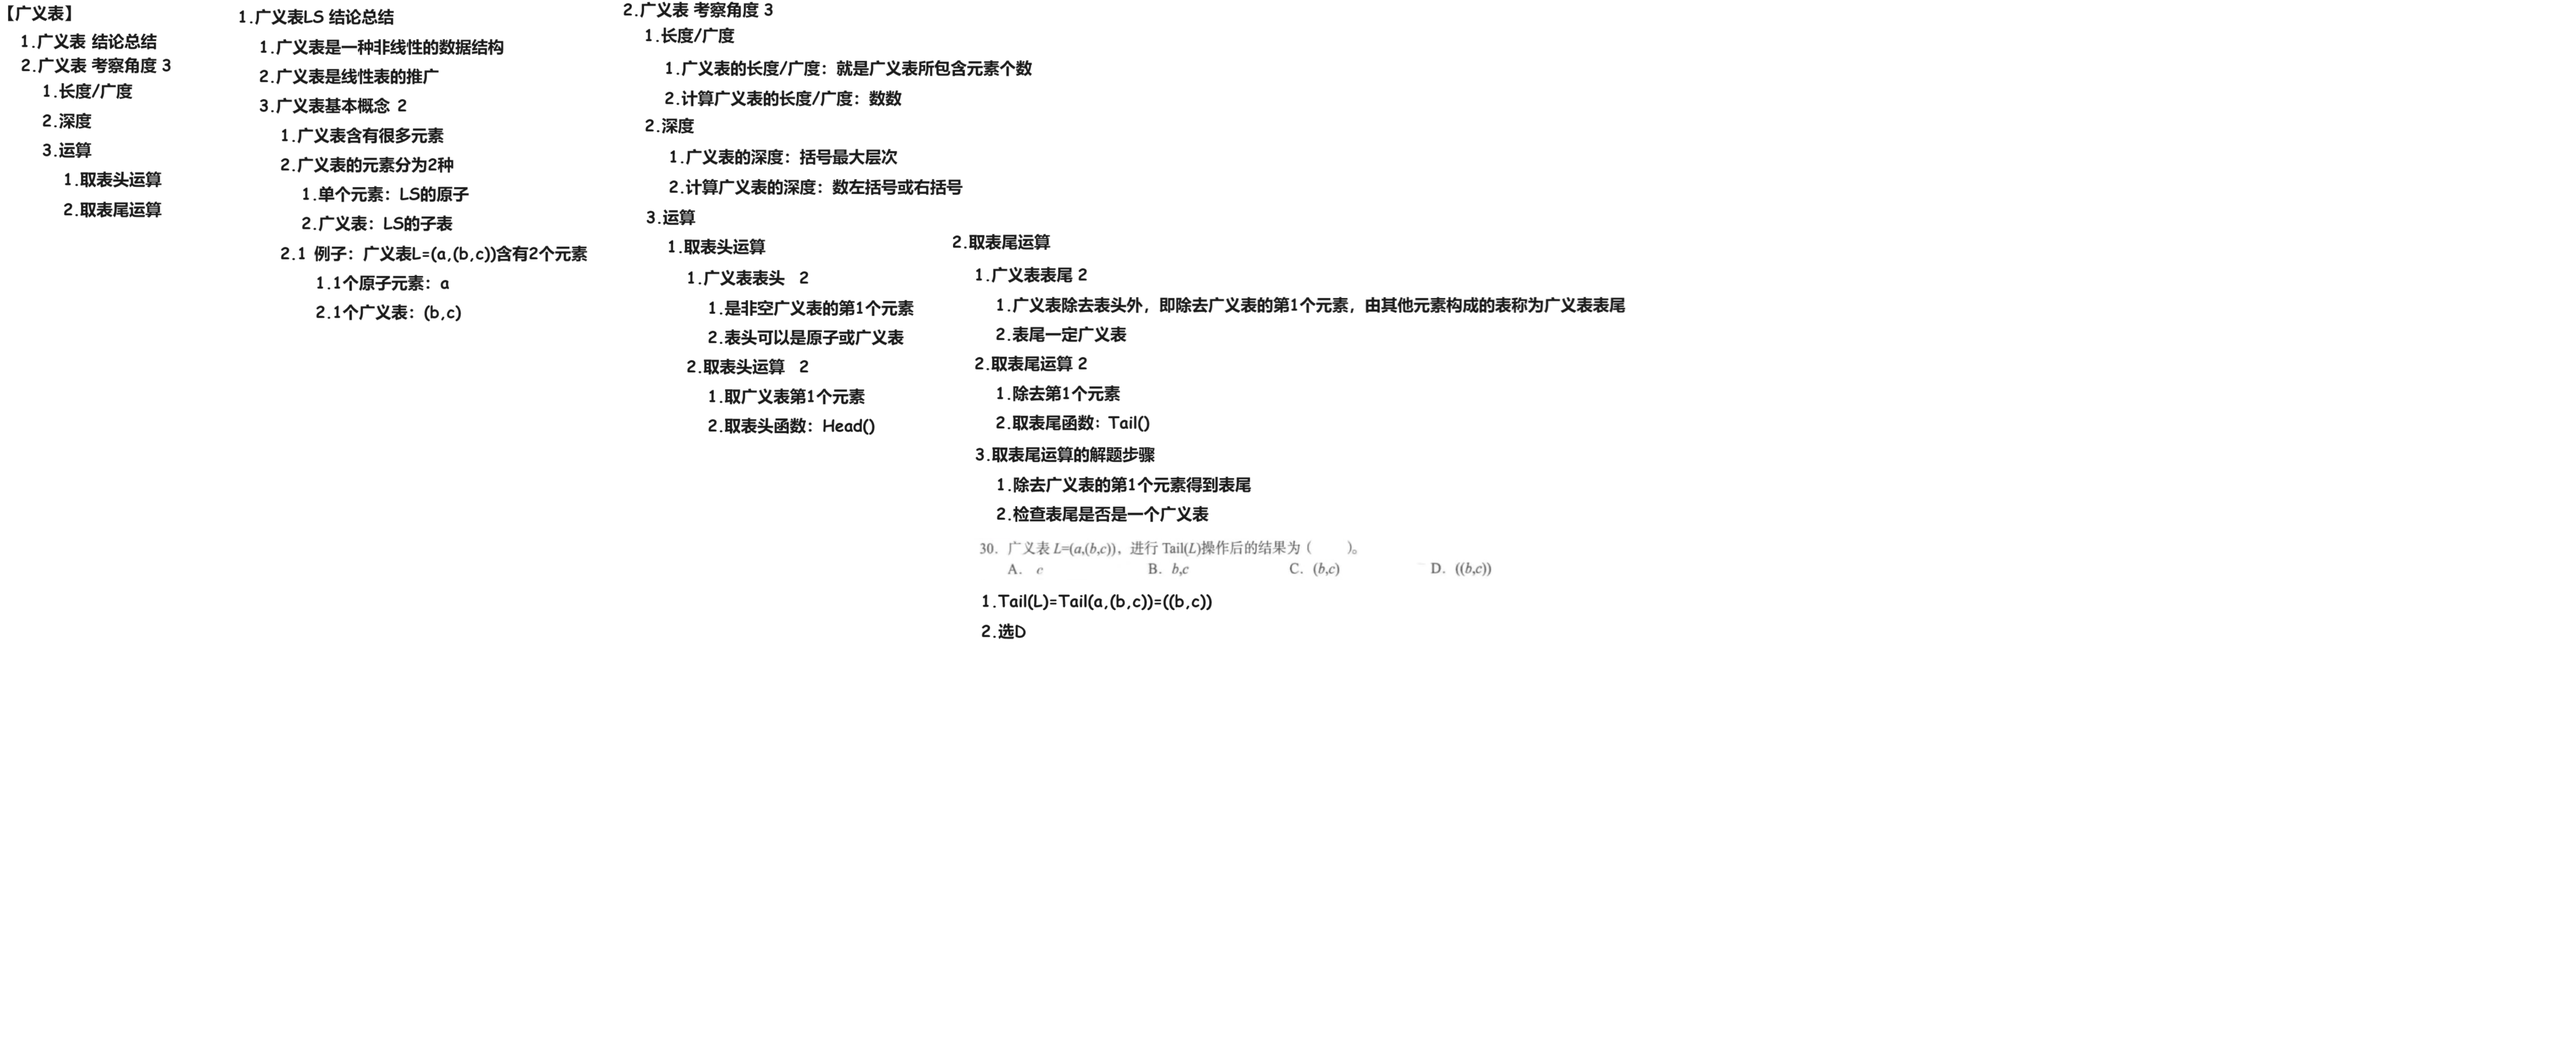
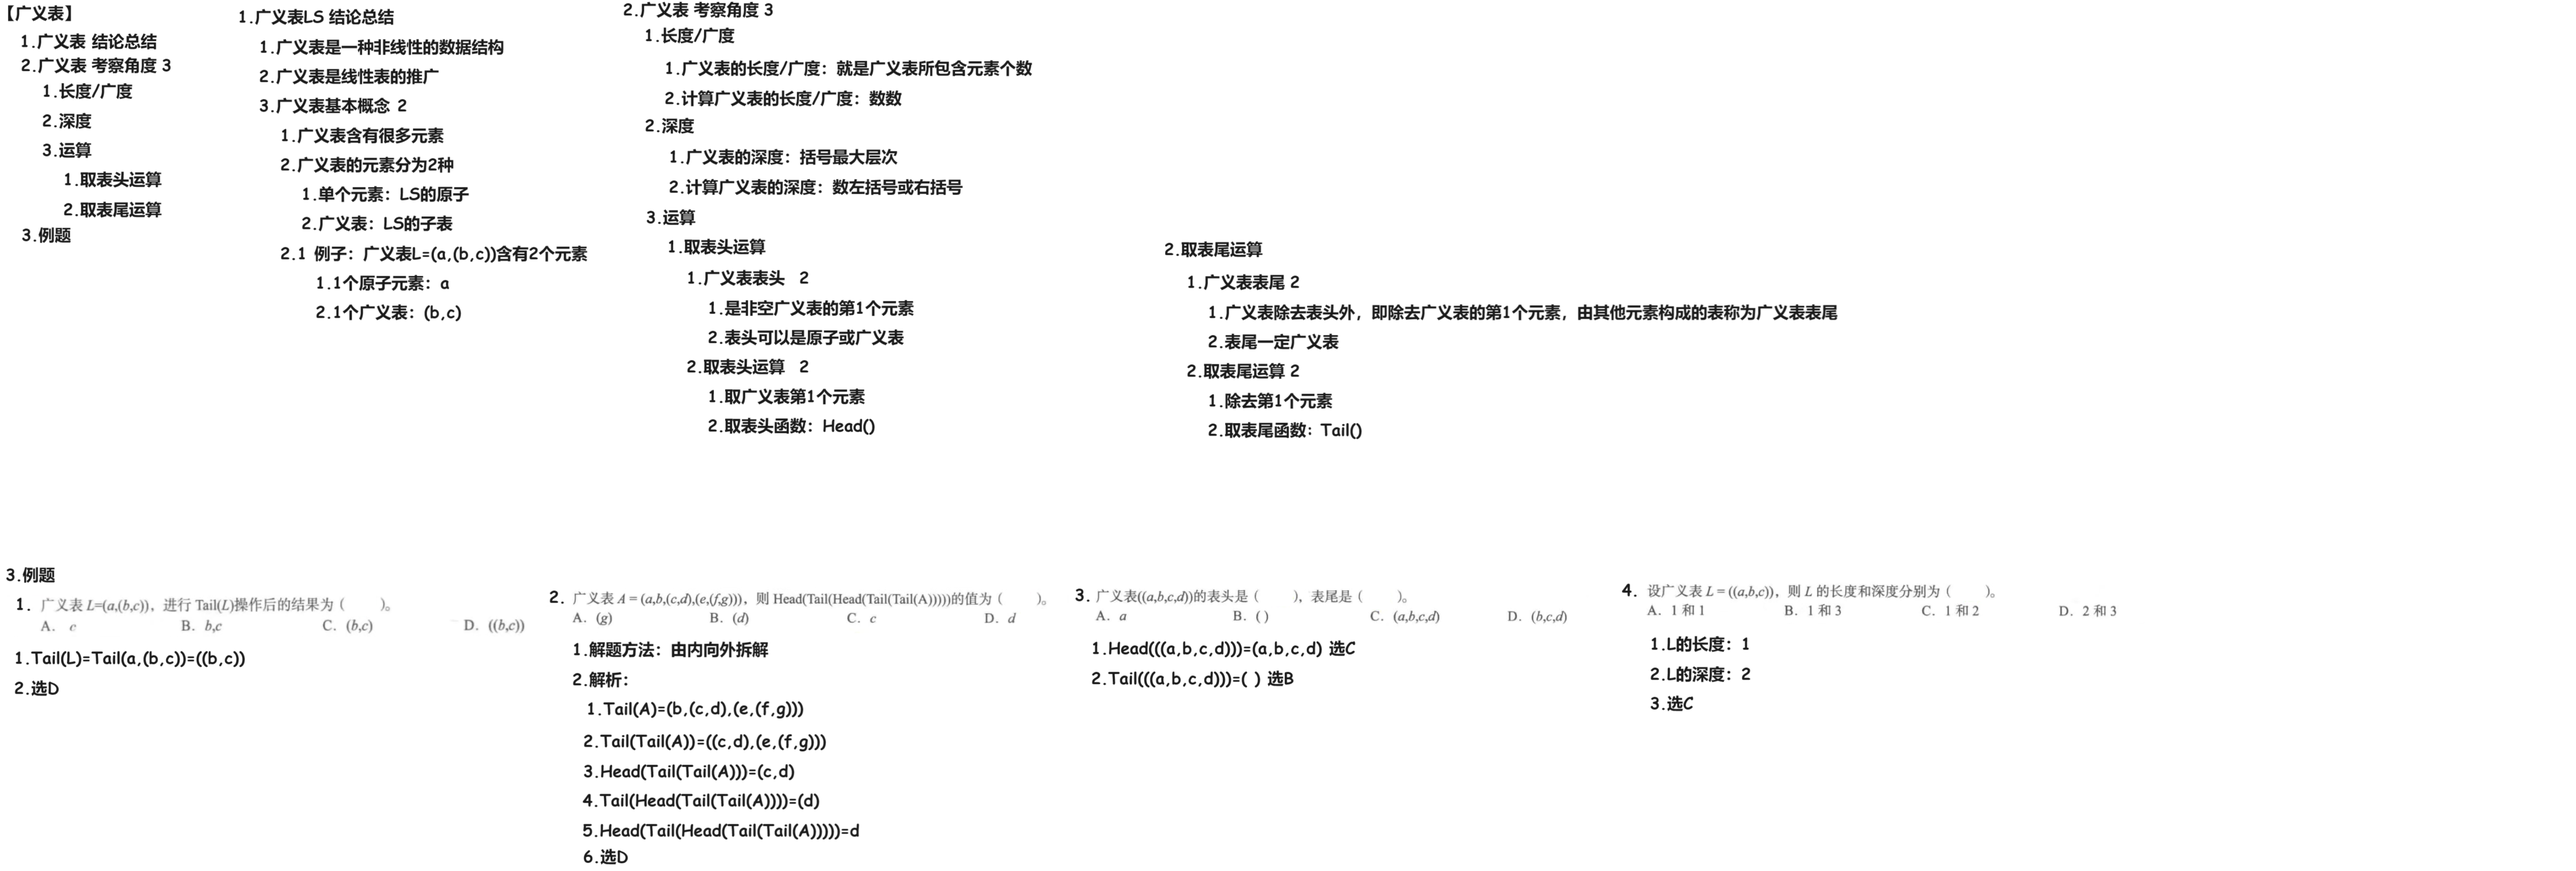
240302

diff --git a/02 DS/01 题集/02 专题/04 820√ 408× 240302/01 广义表/02 题集/01 B站 4/01 小题 4/01 广义表 取表尾 240302/02 Doc.md b/02 DS/01 题集/02 专题/04 820√ 408× 240302/01 广义表/02 题集/01 B站 4/01 小题 4/01 广义表 取表尾 240302/02 Doc.md
@@ -1,0 +1,9 @@
+# 01 题目
+
+<img src="https://cvp.oss-cn-shanghai.aliyuncs.com/picgo/202403020918164.png" alt="image-20240302091839090" style="zoom: 67%;" />
+
+
+
+# 02 答案
+
+<img src="https://cvp.oss-cn-shanghai.aliyuncs.com/picgo/202403020919826.png" alt="image-20240302091901763" style="zoom: 67%;" />

diff --git a/02 DS/01 题集/02 专题/04 820√ 408× 240302/01 广义表/02 题集/01 B站 4/01 小题 4/02 广义表 取表尾 取表头 240302/02 Doc.md b/02 DS/01 题集/02 专题/04 820√ 408× 240302/01 广义表/02 题集/01 B站 4/01 小题 4/02 广义表 取表尾 取表头 240302/02 Doc.md
@@ -1,0 +1,7 @@
+# 01 题目
+
+<img src="https://cvp.oss-cn-shanghai.aliyuncs.com/picgo/202403020916668.png" alt="image-20240302091639610" style="zoom: 67%;" />
+
+# 02 答案
+
+<img src="https://cvp.oss-cn-shanghai.aliyuncs.com/picgo/202403020916419.png" alt="02 答案" style="zoom: 67%;" />

diff --git a/02 DS/01 题集/02 专题/04 820√ 408× 240302/01 广义表/02 题集/01 B站 4/01 小题 4/03 广义表 取表尾 取表头 240302/02 Doc.md b/02 DS/01 题集/02 专题/04 820√ 408× 240302/01 广义表/02 题集/01 B站 4/01 小题 4/03 广义表 取表尾 取表头 240302/02 Doc.md
@@ -1,0 +1,9 @@
+# 01 题目
+
+<img src="https://cvp.oss-cn-shanghai.aliyuncs.com/picgo/202403020915212.png" alt="01 题目" style="zoom: 67%;" />
+
+
+
+# 02 答案
+
+<img src="https://cvp.oss-cn-shanghai.aliyuncs.com/picgo/202403020915006.png" alt="02 答案" style="zoom:67%;" />

diff --git a/02 DS/01 题集/02 专题/04 820√ 408× 240302/01 广义表/02 题集/01 B站 4/01 小题 4/04 广义表 长度 深度 240302/02 Doc.md b/02 DS/01 题集/02 专题/04 820√ 408× 240302/01 广义表/02 题集/01 B站 4/01 小题 4/04 广义表 长度 深度 240302/02 Doc.md
@@ -1,0 +1,7 @@
+# 01 题目
+
+<img src="https://cvp.oss-cn-shanghai.aliyuncs.com/picgo/202403020913700.png" alt="01 题目" style="zoom: 67%;" />
+
+# 02 答案
+
+<img src="https://cvp.oss-cn-shanghai.aliyuncs.com/picgo/202403020913392.png" alt="02 答案" style="zoom: 67%;" />
